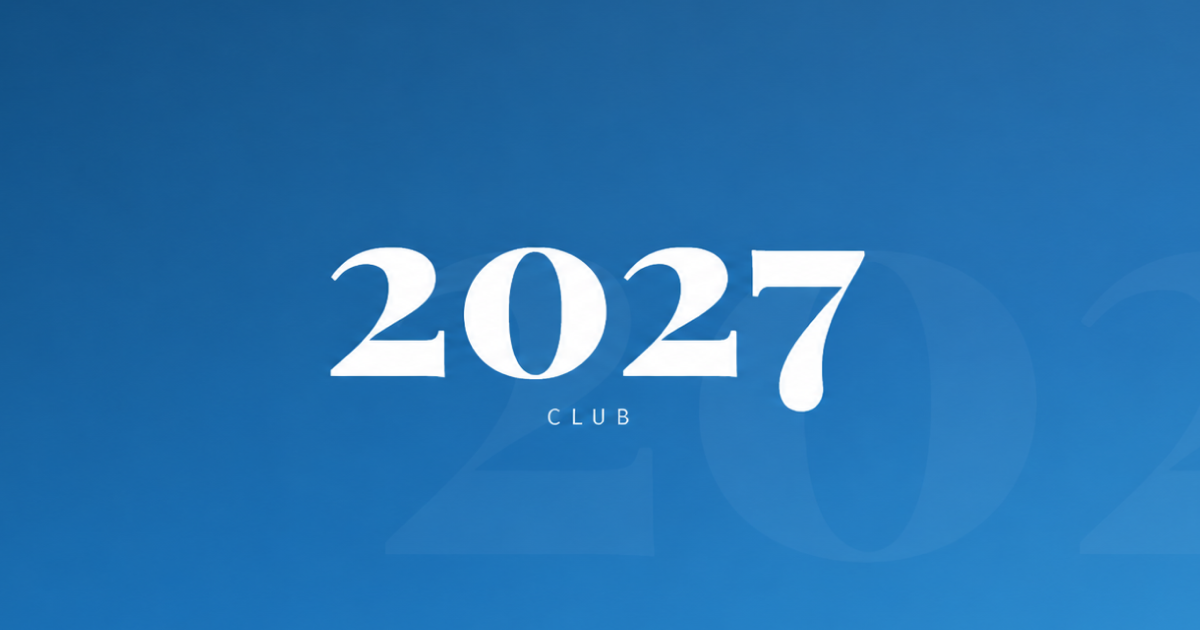
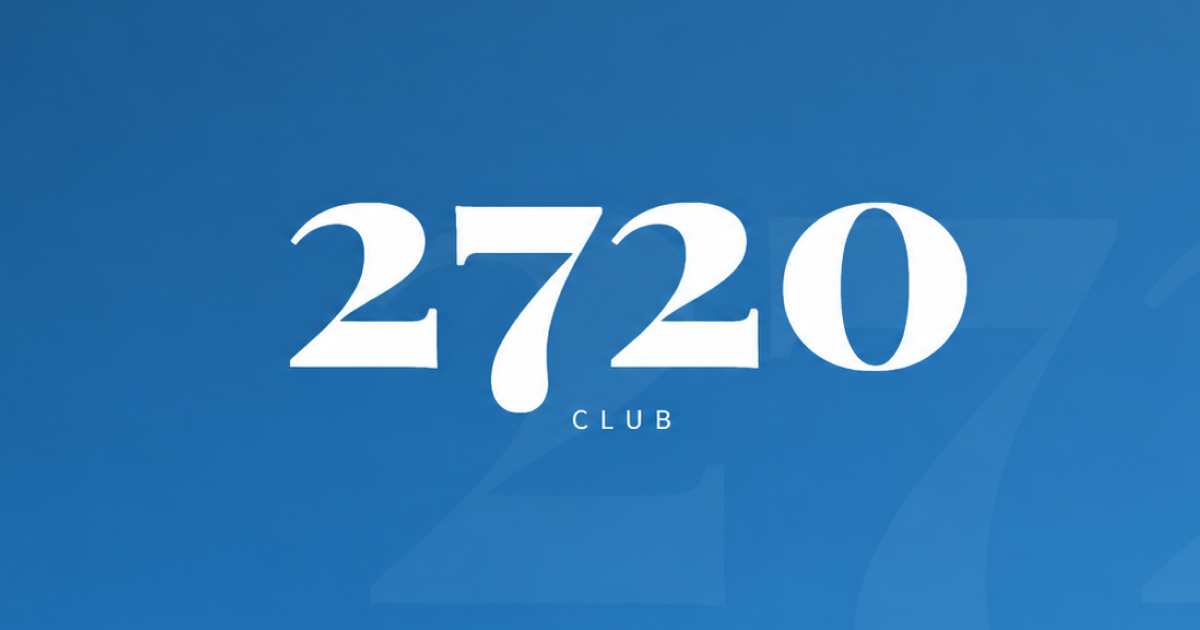
change to 2720 club

Changed region(s): [[0.2467, 0.3016, 0.8325, 0.6937]]

diff --git a/index.html b/index.html
@@ -4,11 +4,11 @@
     <meta charset="UTF-8" />
     <meta name="viewport" content="width=device-width, initial-scale=1.0" />
 
-    <title>2027 Club | Exclusive Community Experience</title>
+    <title>2720 Club | Exclusive Community Experience</title>
 
     <meta
       name="description"
-      content="Join 2027 Club - a modern private community built for connection, exclusive experiences, and premium member access."
+      content="Join 2720 Club - a modern private community built for connection, exclusive experiences, and premium member access."
     />
     <meta name="robots" content="index, follow" />
 
@@ -18,18 +18,18 @@
 
     <meta property="og:type" content="website" />
     <meta property="og:url" content="https://www.2027club.net/" />
-    <meta property="og:title" content="2027 Club | Exclusive Community Experience" />
+    <meta property="og:title" content="2720 Club | Exclusive Community Experience" />
     <meta
       property="og:description"
-      content="Join 2027 Club - a modern private community built for connection, exclusive experiences, and premium member access."
+      content="Join 2720 Club - a modern private community built for connection, exclusive experiences, and premium member access."
     />
     <meta property="og:image" content="https://www.2027club.net/image/og-image.png" />
 
     <meta name="twitter:card" content="summary_large_image" />
-    <meta name="twitter:title" content="2027 Club | Exclusive Community Experience" />
+    <meta name="twitter:title" content="2720 Club | Exclusive Community Experience" />
     <meta
       name="twitter:description"
-      content="Join 2027 Club - a modern private community built for connection, exclusive experiences, and premium member access."
+      content="Join 2720 Club - a modern private community built for connection, exclusive experiences, and premium member access."
     />
     <meta name="twitter:image" content="https://www.2027club.net/image/og-image.png" />
     <link
@@ -93,7 +93,7 @@
         pointer-events: none;
       }
       .hero::after {
-        content: "2027";
+        content: "2720";
         position: absolute;
         right: -60px;
         top: 50%;
@@ -861,7 +861,7 @@
     <!-- HERO -->
     <section class="hero">
       <nav>
-        <span class="nav-logo">2027 Club</span>
+        <span class="nav-logo">2720 Club</span>
         <ul>
           <li><a href="#events">Events</a></li>
           <li><a href="#meetings">Meetings</a></li>
@@ -880,7 +880,7 @@
 
       <div class="hero-center">
         <span class="badge">Welcome to our community</span>
-        <h1>2027</h1>
+        <h1>2720</h1>
         <p class="hero-sub">Club</p>
         <a href="#events" class="hero-cta">See What's On</a>
       </div>
@@ -1221,7 +1221,7 @@
         <div class="center">
           <div class="title">APPLICATION FOR MEMBERSHIP</div>
           <div>Paid Inc.</div>
-          <div>2027 E. Main St.</div>
+          <div>2720 E. Main St.</div>
           <div>Lakeland, FL 33801</div>
         </div>
 
@@ -1261,7 +1261,7 @@
         <p>
           I certify that I have a minimum of 90 days continuous sobriety, and
           that I am dedicated to it's continuance. If accepted for membership, I
-          agree to abide by and uphold the by-laws and rules of the 2027
+          agree to abide by and uphold the by-laws and rules of the 2720
           Club/Paid Inc. I agree to hold confidential and respect the anonymity
           of my fellow members.
         </p>
@@ -1332,7 +1332,7 @@
         <div class="photos-grid reveal">
           <div class="photo-placeholder photo-main">
             <!-- <img src="club.webp"> -->
-            2027 Club Building
+            2720 Club Building
           </div>
           <div class="photo-placeholder photo-side">
             <!-- <img src="sign.webp"> -->
@@ -1352,8 +1352,8 @@
       <p class="section-label">Get in Touch</p>
       <h2 class="section-title">We'd Love to Hear From You</h2>
       <p>Questions, RSVPs, or just want to say hello — drop us a line.</p>
-      <a class="contact-email" href="mailto:2027club@gmail.com"
-        >2027club@gmail.com</a
+      <a class="contact-email" href="mailto:2720club@gmail.com"
+        >2720club@gmail.com</a
       >
 
       <div
@@ -1375,10 +1375,10 @@
             letter-spacing: 0.05em;
           "
         >
-          📍 &nbsp;<strong>2027 E Main St, Lakeland, FL 33801</strong>
+          📍 &nbsp;<strong>2720 E Main St, Lakeland, FL 33801</strong>
         </div>
         <iframe
-          src="https://www.google.com/maps/embed?pb=!1m18!1m12!1m3!1d3524.1!2d-81.9326!3d28.0395!2m3!1f0!2f0!3f0!3m2!1i1024!2i768!4f13.1!3m3!1m2!1s0x88dd3e4d6b2f6f3f%3A0x1!2s2027+E+Main+St%2C+Lakeland%2C+FL+33801!5e0!3m2!1sen!2sus!4v1"
+          src="https://www.google.com/maps/embed?pb=!1m18!1m12!1m3!1d3524.1!2d-81.9326!3d28.0395!2m3!1f0!2f0!3f0!3m2!1i1024!2i768!4f13.1!3m3!1m2!1s0x88dd3e4d6b2f6f3f%3A0x1!2s2720+E+Main+St%2C+Lakeland%2C+FL+33801!5e0!3m2!1sen!2sus!4v1"
           width="100%"
           height="280"
           style="border: 0; border-radius: 12px; max-width: 700px"
@@ -1392,16 +1392,16 @@
 
     <!-- LOCATION BAR -->
     <div class="location-bar">
-      <strong>2027 Club</strong> &nbsp;·&nbsp;
+      <strong>2720 Club</strong> &nbsp;·&nbsp;
       <a
-        href="https://maps.google.com/?q=2027+E+Main+St,+Lakeland,+FL+33801"
+        href="https://maps.google.com/?q=2720+E+Main+St,+Lakeland,+FL+33801"
         target="_blank"
       >
-        2027 E Main St, Lakeland, FL 33801
+        2720 E Main St, Lakeland, FL 33801
       </a>
     </div>
 
-    <footer>&copy; 2027 Club. All rights reserved.</footer>
+    <footer>&copy; 2720 Club. All rights reserved.</footer>
 
     <!-- Scripts -->
     <script>
@@ -1486,7 +1486,7 @@
               }
             }
 
-            pdf.save("2027-club-membership-form.pdf");
+            pdf.save("2720-club-membership-form.pdf");
           } catch (err) {
             console.error("PDF error:", err);
             btn.style.visibility = "visible";
